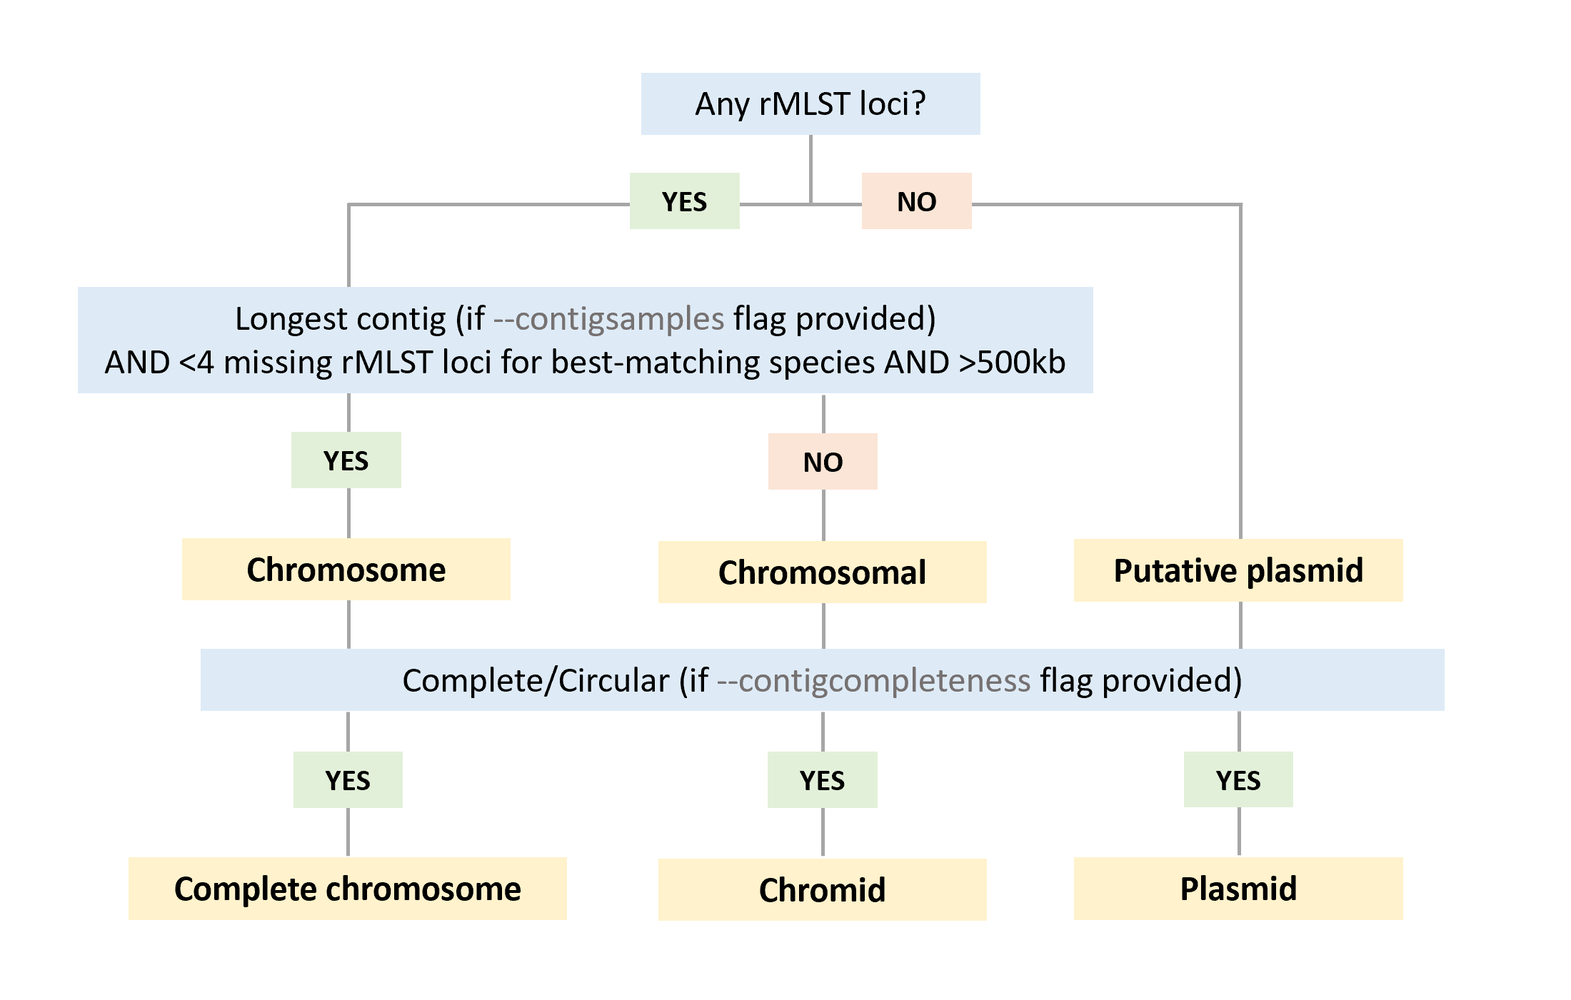
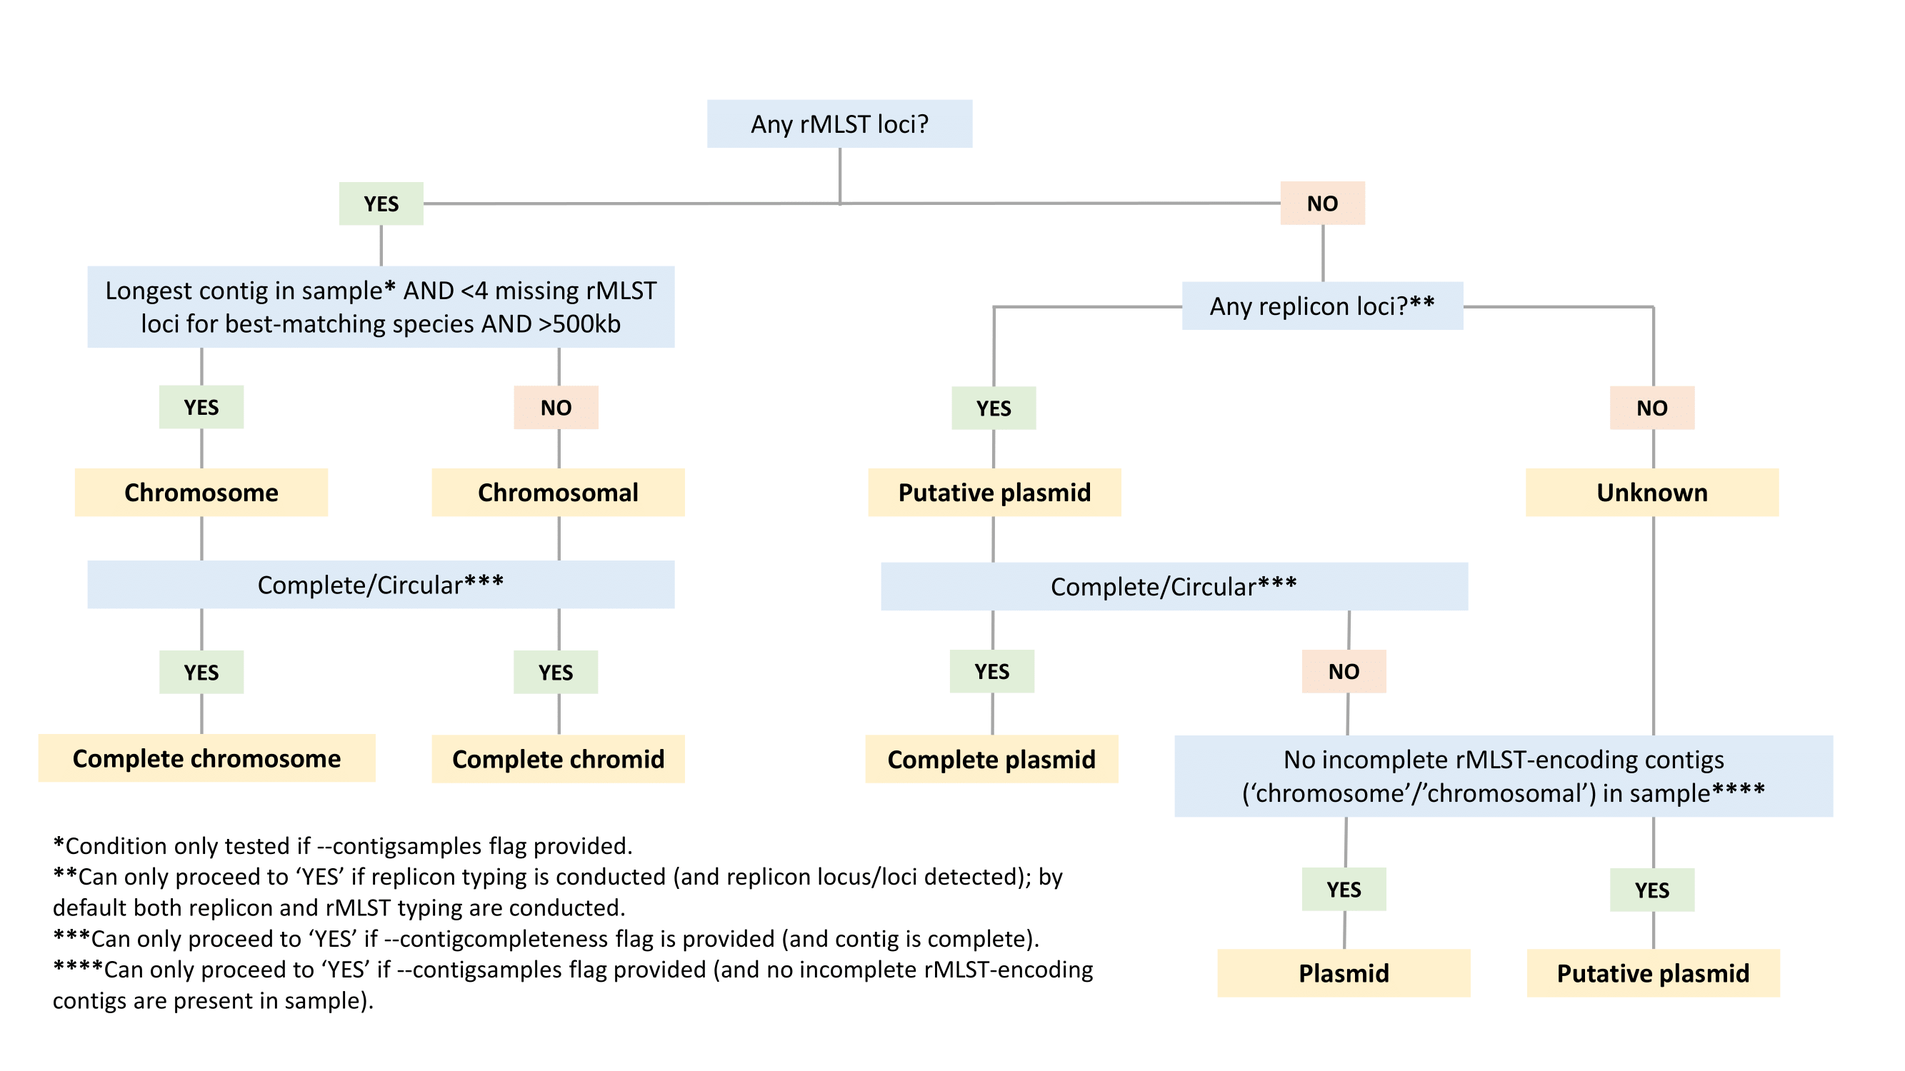
updated in-house decision tree to incorporate more information e.g. replicon typing, and to reflect more uncertainty around what is considered a plasmid e.g. chromosomal fragments and phage sequences are likely to lack rMLST loci and shouldn't be considered plamsids

diff --git a/finalfilter.py b/finalfilter.py
@@ -230,9 +230,9 @@ else:
                     samplecontigdict[sample].append(contig)
                 else:
                     samplecontigdict[sample]=[contig]
-        #iterate through samples
-        for sample in sorted(samplecontigdict.keys()):
-            f2.write('>%s\n'%sample)             
+        #iterate through samples (first pass - annotate chromosome, chromosomal, chromid contigs; leave other contigs as unknown for now)
+        contigclassesdict={}
+        for sample in sorted(samplecontigdict.keys()):           
             samplecontigs=samplecontigdict[sample]
             lengths=[]
             for contig in samplecontigs:
@@ -241,8 +241,50 @@ else:
             indices.reverse()
             samplecontigs=[samplecontigs[i] for i in indices] #sample contigs are now sorted in length order, starting with longest
             lengths=[lengths[i] for i in indices]
+            #iterate through sample contigs, sorted by length
+            for indxb,(contig,length) in enumerate(zip(samplecontigs,lengths)):
+                #get typing info and contig completeness
+                reptype=reptypedict[contig]
+                enterobactypes,enterobacprobes,enterobacnum,grampostypes,gramposprobes,gramposnum=reptype
+                rmlsttype=rmlsttypedict[contig]
+                topspecies,toprst,num_matches,num_mismatches,num_missingloci,num_multiallelicloci,rmlstalleles=rmlsttype
+                contigcompleteness=contigcompletenessdict[contig]
+                ##classify contig
+                #check for chromosome contig: longest contig, rmlst typed with max 3 missing loci, longer than 500kb
+                contigclass='unknown'
+                if indxb==0 and topspecies!='-' and int(length)>500000:
+                    if int(num_missingloci)<=3:
+                        if contigcompleteness=='complete':
+                            contigclass='complete chromosome'
+                        else:
+                            contigclass='chromosome'
+                #classify non-chromosome sample contigs
+                if contigclass=='unknown':
+                    if topspecies!='-':  #at least one rMLST locus
+                        if contigcompleteness=='complete':
+                            contigclass='complete chromid'
+                        else:
+                            contigclass='chromosomal'
+                    #else:  #no rMLST (so no topspecies); leave contig classified as unknown; after iterating through all contigs again, reassign according to decision tree
+                #store contig class
+                contigclassesdict[contig]=contigclass
+
+        #iterate through samples (second pass - assign contigs without rMLST locus)
+        for sample in sorted(samplecontigdict.keys()):
+            f2.write('>%s\n'%sample)  
+            samplecontigs=samplecontigdict[sample]
+            contigclasses=set()
+            for contig in samplecontigs:
+                contigclasses.add(contigclassesdict[contig])
+            lengths=[]
+            for contig in samplecontigs:
+                lengths.append(seqlengthdict[contig])
+            indices=list(np.argsort(lengths))
+            indices.reverse()
+            samplecontigs=[samplecontigs[i] for i in indices] #sample contigs are now sorted in length order, starting with longest
+            lengths=[lengths[i] for i in indices]
             #initialise sample-level lists
-            if sampleoutput=='True':
+            if sampleoutput=='True':  #sampleoutput=True by default in lastest version, so this if statement is now uneccessary
                 samplermlstalleles=[]
                 sampleenterobactypes=[]
                 sampleenterobacprobes=[]
@@ -250,8 +292,9 @@ else:
                 samplegramposprobes=[]
                 samplelength=str(sum(lengths))
             #iterate through sample contigs, sorted by length
-            for indxb,(contig,length) in enumerate(zip(samplecontigs,lengths)):
+            for contig,length in zip(samplecontigs,lengths):
                 #get typing info and contig completeness
+                contigclass=contigclassesdict[contig]
                 reptype=reptypedict[contig]
                 enterobactypes,enterobacprobes,enterobacnum,grampostypes,gramposprobes,gramposnum=reptype
                 rmlsttype=rmlsttypedict[contig]
@@ -268,36 +311,22 @@ else:
                         samplegrampostypes.extend(grampostypes.split(','))
                         samplegramposprobes.extend(gramposprobes.split(','))
                 ##classify contig
-                #check for chromosome contig: longest contig, rmlst typed with max 3 missing loci, longer than 500kb
-                chromosomeclass=True
-                if indxb==0 and topspecies!='-' and int(length)>500000:
-                    if int(num_missingloci)<=3:
+                if contigclass=='unknown':
+                    if enterobactypes!='-' or grampostypes!='-':
+                        contigclass='putative plasmid'
                         if contigcompleteness=='complete':
-                            contigclass='complete chromosome'
+                            contigclass='complete plasmid'
                         else:
-                            contigclass='chromosome'
+                            if ('chromosomal' not in contigclasses) and ('chromosome' not in contigclasses): #if other rMLST contigs are either complete chromosome or chromid
+                                contigclass='plasmid'
                     else:
-                        chromosomeclass=False
-                else:
-                    chromosomeclass=False
-                #classify non-chromosome sample contigs
-                if chromosomeclass==False:
-                    if topspecies!='-':
-                        if contigcompleteness=='complete':
-                            contigclass='chromid'
-                        else:
-                            contigclass='chromosomal'
-                    else:
-                        if contigcompleteness=='complete':
-                            contigclass='plasmid'
-                        else:
+                        if ('chromosomal' not in contigclasses) and ('chromosome' not in contigclasses):
                             contigclass='putative plasmid'
-                            
+                                
                 ##write contig-level typing to file##
                 if typedcontigsonly=='True':  #skip untyped contigs
-                    if topspecies=='-' and reptype[0]=='-' and reptype[3]=='-':
+                    if topspecies=='-' and enterobactypes=='-' and grampostypes=='-':
                         continue
-                
                 if typing=='both':
                     f2.write('%s\t%s\t%s\t%s\t%s\n'%(contig,length,'\t'.join(rmlsttype),'\t'.join(reptype),contigclass))
                 elif typing=='rmlst':
@@ -348,37 +377,34 @@ else:
         for contig in sorted(contigs):
             length=seqlengthdict[contig]
             reptype=reptypedict[contig]
+            enterobactypes,enterobacprobes,enterobacnum,grampostypes,gramposprobes,gramposnum=reptype
             rmlsttype=rmlsttypedict[contig]
             topspecies,toprst,num_matches,num_mismatches,num_missingloci,num_multiallelicloci,rmlstalleles=rmlsttype
             contigcompleteness=contigcompletenessdict[contig]
             #check for chromosome contig: rmlst typed with max 3 missing loci, longer than 500kb                                        
-            chromosomeclass=True
+            contigclass='unknown'
             if int(length)>500000 and topspecies!='-':
                 if int(num_missingloci)<=3:
                     if contigcompleteness=='complete':
                         contigclass='complete chromosome'
                     else:
                         contigclass='chromosome'
-                else:
-                    chromosomeclass=False
-            else:
-                chromosomeclass=False
             #classify non-chromosome contigs                                                                                            
-            if chromosomeclass==False:
+            if contigclass=='unknown':
                 if topspecies!='-':
                     if contigcompleteness=='complete':
-                        contigclass='chromid'
+                        contigclass='complete chromid'
                     else:
                         contigclass='chromosomal'
                 else:
-                    if contigcompleteness=='complete':
-                        contigclass='plasmid'
-                    else:
+                    if enterobactypes!='-' or grampostypes!='-':
                         contigclass='putative plasmid'
+                        if contigcompleteness=='complete':
+                            contigclass='complete plasmid'
 
             ##write contig-level typing to file##
             if typedcontigsonly=='True':  #skip untyped contigs
-                if topspecies=='-' and reptype[0]=='-' and reptype[3]=='-':
+                if topspecies=='-' and enterobactypes=='-' and grampostypes=='-':
                     continue
                 
             if typing=='both':

diff --git a/README.md b/README.md
@@ -25,7 +25,7 @@ __Retrieving complete bacterial plasmids from NCBI__:<br>
 Retrieving complete plasmid sequences from the NCBI nucleotide database requires quality-filtering to exclude partial plasmid sequences, or chromosomal sequences mis-annotated as plasmids. I previously outlined methods to curate NCBI bacterial plasmids ([Orlek _et al_. 2017](https://www.ncbi.nlm.nih.gov/pubmed/28286183)). Following similar methods, bacterialBercow allows users to first retrieve putative complete bacterial plasmid sequences from NCBI, and then characterise these sequences by detecting plasmid [replicon loci](https://www.ncbi.nlm.nih.gov/pmc/articles/PMC4068535/) and ribosomal multi-locus sequence typing ([rMLST](https://pubmlst.org/rmlst/)) loci ([Jolley _et al._ 2012](https://mic.microbiologyresearch.org/content/journal/micro/10.1099/mic.0.055459-0#tab2)). rMLST loci can be used as markers of chromosomal sequence. As a result, chromosomal sequence misannotated as plasmid can be excluded and genuine complete plasmid sequences can be identified. bacterialBercow is not the only available tool for retrieving curated plasmid sequences. [PLSDB](https://ccb-microbe.cs.uni-saarland.de/plsdb) is an online database of curated plasmids, updated every ~3 months, so this is an easy way to get hold of NCBI plasmid sequences, and as an online database it comes with nice interactive features. Associated code is also available [here](https://github.com/VGalata/plsdb). However, there are reasons why you may want to use bacterialBercow for plasmid retrieval/curation (see [FAQ](#faq) for details).
 
 __Classifying contigs from complete/near-complete bacterial sequence assemblies as plasmid, chromosome, etc.__:<br>
-As well as helping to classify/curate NCBI sequences, bacterialBercow can be used to classify in-house (user-provided) sequence assemblies. As above, rMLST loci can be used to help identify chromosomal sequence. Additional user-provided information, namely, source sample, and completeness (e.g. whether the contig assembled to form a complete circular sequence) can be used to help refine contig classification as plasmid, chromosome, [chromid](https://www.ncbi.nlm.nih.gov/pubmed/20080407), or incomplete chromosomal sequence. Chromids are secondary replicons which are intermediate between chromosomes and plasmids (e.g. unlike plasmids, they encode at least one essential gene, but on the other hand, they encode plasmid-like replication loci). If you are dealing with complete assemblies from bacterial taxa that tend not to harbour chromids, then assigning the longest contig as the chromosome and all other contigs as plasmids is reasonable. However, even with long-reads, bacterial assemblies may not be perfectly resolved such that one contig represents one replicon ([Wick 2017](https://www.ncbi.nlm.nih.gov/pmc/articles/PMC5695209/)). bacterialBercow is a more robust approach for contig classification, and is especially useful when dealing with assemblies that are near-complete but not perfectly resolved, and/or when taxa are known to sometimes harbour chromids. As far as I know, there are currently no other automated tools for classifying contigs in complete/near-complete assemblies. Note that bacterialBercow is not intended for contig classification of fragmented assemblies (derived from short-read sequencing data). In this case, accurate classification of all contigs may not be achievable, although there are automated tools that aim to address this goal ([Arredondo-Alonso _et al._ 2017](https://www.ncbi.nlm.nih.gov/pmc/articles/PMC5695206/)).
+As well as helping to classify/curate NCBI sequences, bacterialBercow can be used to classify in-house (user-provided) sequence assemblies. As above, rMLST loci can be used to help identify chromosomal sequence. Plasmid replicon loci can be used as markers of plasmid sequence. Additional user-provided information, namely, source sample, and completeness (e.g. whether the contig assembled to form a complete circular sequence) can be used to help refine contig classification as plasmid, chromosome, [chromid](https://www.ncbi.nlm.nih.gov/pubmed/20080407), or incomplete chromosomal sequence. Chromids are secondary replicons which are intermediate between chromosomes and plasmids (e.g. unlike plasmids, they encode at least one essential gene, but on the other hand, they encode plasmid-like replication loci). If you are dealing with complete assemblies from bacterial taxa that tend not to harbour chromids, then assigning the longest contig as the chromosome and all other contigs as plasmids is reasonable. However, even with long-reads, bacterial assemblies may not be perfectly resolved such that one contig represents one replicon ([Wick 2017](https://www.ncbi.nlm.nih.gov/pmc/articles/PMC5695209/)). bacterialBercow is a more robust approach for contig classification, and is especially useful when dealing with assemblies that are near-complete but not perfectly resolved, and/or when taxa are known to sometimes harbour chromids. As far as I know, there are currently no other automated tools for classifying contigs in complete/near-complete assemblies. Note that bacterialBercow is not intended for contig classification of fragmented assemblies (derived from short-read sequencing data). In this case, accurate classification of all contigs may not be achievable, although there are automated tools that aim to address this goal ([Arredondo-Alonso _et al._ 2017](https://www.ncbi.nlm.nih.gov/pmc/articles/PMC5695206/)).
 
 __Characterising bacterial sequence assemblies__:<br>
 bacterialBercow also allows users to characterise their own in-house assembled sequences (both complete and fragmented assemblies), using [plasmid replicon typing](https://www.ncbi.nlm.nih.gov/pmc/articles/PMC4068535/) and [rMLST typing](https://pubmlst.org/rmlst/). Plasmid replicon typing and rMLST have applications in plasmid epidemiology (see [Orlek _et al._ 2017](https://www.ncbi.nlm.nih.gov/pubmed/28232822)), and bacterial speciation, respectively. As far as I know, there are currently no other command-line tools for rMLST-based taxonomy (only the [rMLST website](https://pubmlst.org/rmlst/)). Replicon typing and rMLST-based bacterial speciation can be conducted on fragmented assemblies as well as complete assemblies; bacterial species can be determined based on allelic variation at rMLST loci ([Larsen _et al._ 2014](https://www.ncbi.nlm.nih.gov/pubmed/24574292)), even if loci are partitioned across contigs of a fragmented assembly. It may also be possible to determine species or genus-level taxonomic information from incomplete chromosomal sequence, if sufficient rMLST loci are represented.<br>
@@ -143,7 +143,7 @@ You could run bacterialBercow in two stages. First, on your own computer, run ba
 
 __Customising in-house contig pipeline steps__:<br>
 The `--inhousesequences` flag allows a user to provide their own multi-FASTA file of sequences which will be characterised using replicon typing and/or rMLST typing.<br>
-By default both replicon and rMLST typing will be conducted on in-house sequences, but a user can specify only `replicon` typing or only `rmlst` typing using the `--typing` flag. For accessions retrieved from NCBI, both replicon and rMLST typing are performed.<br>
+By default both replicon and rMLST typing will be conducted on in-house sequences, but a user can specify only `replicon` typing or only `rmlst` typing using the `--typing` flag. If the goal is contig classification, it's best to run both rMLST and replicon typing, and if rMLST typing is not specified, contig classification is not attempted. For accessions retrieved from NCBI, both replicon and rMLST typing are performed.<br>
 <br>
 Providing information about how contigs group according to source sample can improve contig classification. Specifically, a chromosome should be the longest contig in a sample. A tsv file containing contig names in the first column and associated sample names in the second column can be provided with the `--contigsamples` flag.<br>
 Known information about contig completeness or circularity (e.g. as provided by assemblers such as [Unicycler](https://github.com/rrwick/Unicycler)), can be included when classifying contigs. A tsv file containing contig names in the first column and contig completeness information in the second column can be provided with the `--contigcompleteness` flag. Contigs labelled as 'circular', 'complete', or 'complete_linear' will be considered to be complete sequences. Other accepted contig labels are 'linear','incomplete', and 'unknown'.<br>
@@ -245,7 +245,9 @@ I previously published a similar method for plasmid curation ([Orlek _et al._ 20
 The simplest approach is to deduplicate all sequences i.e. select a single representative sequence from each set of duplicates. However, if you are interested in plasmid transmission, this is probably not the best approach. Obviously, evolution means that independent recovery of the same plasmid sequence will be very rare (especially for longer sequences). However, cases of identical plasmids collected independently by different research groups have been reported ([Campos _et al._ 2019](https://mra.asm.org/content/8/9/e00051-19)). In fact, independently isolated duplicate sequences may be more common than expected due to reference-guided assembly; reference-guided assembly may bias sequencing results such that conserved (but slightly divergent) plasmids are found to be the same after assembly, due to failure to identify true SNPs and structural variants ([Pightling 2014](https://www.ncbi.nlm.nih.gov/pubmed/25144537), [Garg 2018](https://www.ncbi.nlm.nih.gov/pubmed/29949989)). Duplicate plasmids from independent isolates are interesting because they are likely to represent (horizontal or vertical) plasmid transmission; these cases must be distinguished from un-interesting duplicates (Genbank/Refseq duplicates, re-submission of the same sequence to NCBI, re-sequencing of the same sample). The BioProject accession id should ideally help to identify plasmids derived from the same sequencing project and thereby inform deduplication strategy. However, in my experience, BioProject ids are an unreliable surrogate for sequencing project, and therefore the default strategy is to use a repertoire of information: BioSample id, BioProject id, and submitter metadata.
 
 * **Are there any caveats I should be aware of when using bacterialBercow?**
-    * bacterialBercow can use rMLST loci (and other user-provided information) to help classify NCBI accessions (and in-house contigs). However, contig classifications should be treated cautiously, especially in the case of contigs that represent incomplete sequences. Absence of rMLST loci does not necessarily mean that a sequence is a plasmid. For example, a relatively short stretch of chromosomal sequence may not include any rMLST loci. A chromid is a secondary replicon which (unlike plasmids) encode one or more essential bacterial genes, but encode replication systems which are similar to those of plasmids ([di Cenzo & Finan 2017](https://mmbr.asm.org/content/81/3/e00019-17)). rMLST loci (which encode ribosomal proteins) are not the only group of essential genes ([Gil _et al._ 2004](https://www.ncbi.nlm.nih.gov/pmc/articles/PMC515251/)); therefore a sequence with no rMLST loci could be a chromid sequence encoding other essential genes. Future versions of bacterialBercow could incorporate more comprehensive sets of bacterial core genes in order to better distinguish chromid sequences.
+    * The decision tree for classifying NCBI-retrieved sequences uses rMLST loci (and a length threshold) for classification. However, absence of rMLST loci does not necessarily mean that a sequence is a plasmid. For example, a relatively short stretch of chromosomal sequence may not include any rMLST loci. The decision tree for classifying in-house contigs can incorporate trusted user-provided information on contig completeness and sample groupings, making classification more reliable. The in-house contig decision tree also accounts for classification uncertainty using the annotations 'putative plasmid' and 'unknown'.
+    * A chromid is a secondary replicon which (unlike plasmids) encode one or more essential bacterial genes, but encode replication systems which are similar to those of plasmids ([di Cenzo & Finan 2017](https://mmbr.asm.org/content/81/3/e00019-17)). rMLST loci (which encode ribosomal proteins) are not the only group of essential genes ([Gil _et al._ 2004](https://www.ncbi.nlm.nih.gov/pmc/articles/PMC515251/)); therefore a sequence with no rMLST loci could be a chromid sequence encoding other essential genes. Future versions of bacterialBercow could incorporate more comprehensive sets of bacterial core genes in order to better distinguish chromid sequences.
+    * Temperate or lytic DNA bacteriophages may be included in a bacterial genome assembly. Currently, bacterialBercow does not distinguish phage sequences. With the in-house decision tree, a phage is likely to be annotated as 'unknown' or 'putative plasmid' (assuming no rMLST or replicon loci are encoded).
     * When running the complete NCBI curation pipeline, bacterialBercow retrieves plasmid metadata from NCBI, including plasmid topology information (circular / linear). Ideally, a plasmid annotated as 'complete' and 'linear' should be a genuine linear plasmid, but the topology annotation should probably be treated cautiously, particularly since linear is the [default value when submitting to NCBI](https://www.ncbi.nlm.nih.gov/books/NBK293904/); also, a 'linear' plasmid could represent a circular plasmid that failed to circularise after assembly.
 
 
